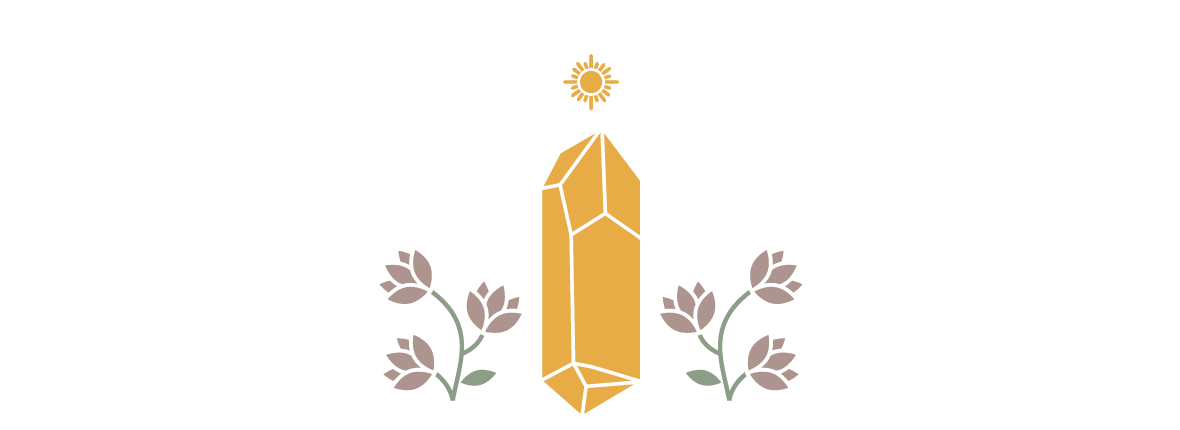
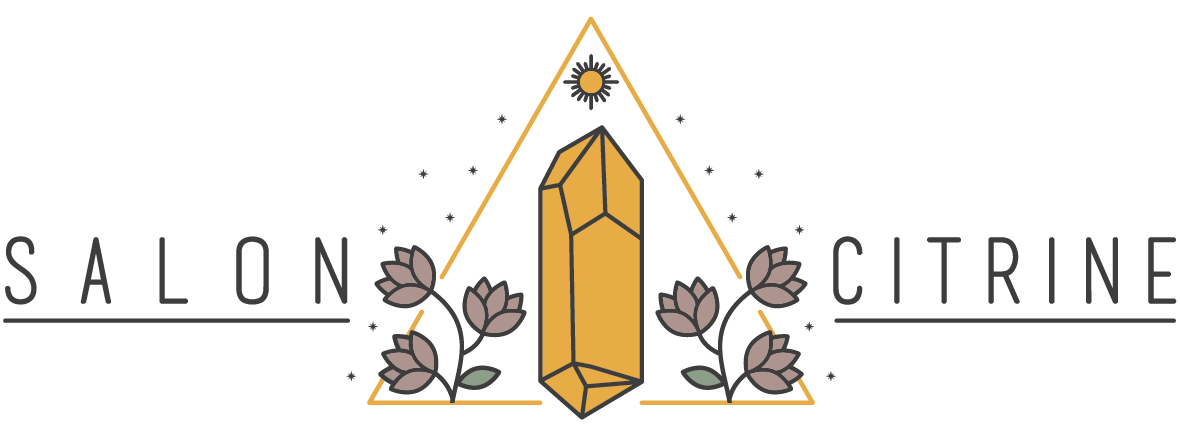
Dark mode: cross-page contrast and token fixes

diff --git a/apps/team/src/styles/dark-mode-overrides.css b/apps/team/src/styles/dark-mode-overrides.css
@@ -1,0 +1,118 @@
+/*
+ * Champion 3 — cross-page dark mode contrast fixes.
+ * Prefer token overrides under [data-theme="dark"] over per-page hacks.
+ */
+
+[data-theme="dark"] {
+  color-scheme: dark;
+  --color-link: #c9a96e;
+  --color-success: #9cb393;
+}
+
+/* Native date/time inputs respect dark surfaces */
+[data-theme="dark"] input[type="date"],
+[data-theme="dark"] input[type="time"],
+[data-theme="dark"] input[type="datetime-local"] {
+  color-scheme: dark;
+}
+
+/* Shared notices & badges */
+[data-theme="dark"] .notice--error {
+  color: #f5a8a8;
+  border-color: rgba(200, 68, 68, 0.45);
+  background: rgba(200, 60, 60, 0.14);
+}
+
+[data-theme="dark"] .team-badge--warn {
+  color: #f5a8a8;
+  border-color: rgba(200, 68, 68, 0.45);
+  background: rgba(200, 60, 60, 0.14);
+}
+
+[data-theme="dark"] .team-badge--ok {
+  color: #b5c9ae;
+  border-color: rgba(141, 158, 136, 0.45);
+  background: rgba(141, 158, 136, 0.16);
+}
+
+[data-theme="dark"] .team-toast--error {
+  color: #f5a8a8;
+}
+
+/* List / manage page chrome */
+[data-theme="dark"] .team-list-layout__title,
+[data-theme="dark"] .team-manage-layout__title {
+  color: var(--color-text);
+}
+
+[data-theme="dark"] .team-list-layout__subheader,
+[data-theme="dark"] .team-manage-layout__subheader {
+  background: var(--color-bg);
+  border-bottom-color: var(--color-border);
+}
+
+[data-theme="dark"] .team-list-layout__sidebar-link.is-active,
+[data-theme="dark"] .team-list-layout__sidebar-nav-btn.is-active,
+[data-theme="dark"] .team-manage-layout__nav-link.is-active {
+  color: var(--color-text);
+}
+
+/* Reports toolbar & date presets */
+[data-theme="dark"] .reports-preset[aria-pressed="true"] {
+  background: var(--color-stone-100);
+  color: var(--color-text);
+  box-shadow: inset 0 0 0 2px var(--color-sage);
+}
+
+[data-theme="dark"] .reports-metric__value,
+[data-theme="dark"] .reports-cancel-cell__value {
+  color: var(--color-text);
+}
+
+/* Day calendar — sticky header bar must stay opaque on dark bg */
+[data-theme="dark"] .day-cal {
+  --day-header-bg: var(--color-stone-100);
+}
+
+[data-theme="dark"] .day-cal__header {
+  box-shadow: 0 1px 0 rgba(255, 255, 255, 0.06);
+}
+
+[data-theme="dark"] .day-cal__time-spacer,
+[data-theme="dark"] .day-cal__staff-row {
+  background: var(--day-header-bg);
+}
+
+/* Inventory modals & forms (global class names from inventory.astro) */
+[data-theme="dark"] .inventory-modal__backdrop {
+  background: rgba(0, 0, 0, 0.55);
+}
+
+[data-theme="dark"] .inventory-scanner__manual {
+  border-top-color: var(--color-border);
+}
+
+[data-theme="dark"] .inventory-scanner__error {
+  color: #f5a8a8;
+}
+
+[data-theme="dark"] .stock-status--in {
+  color: #b5c9ae;
+}
+
+[data-theme="dark"] .stock-status--low {
+  color: #e8cdc8;
+}
+
+/* Login form borders */
+[data-theme="dark"] .team-shell.team-shell--login,
+[data-theme="dark"] .login-split__panel,
+[data-theme="dark"] body.body--login {
+  --login-border: var(--color-border);
+  --login-border-strong: var(--color-stone-300);
+}
+
+[data-theme="dark"] body.body--login {
+  background: var(--color-cream);
+  background-image: none;
+}